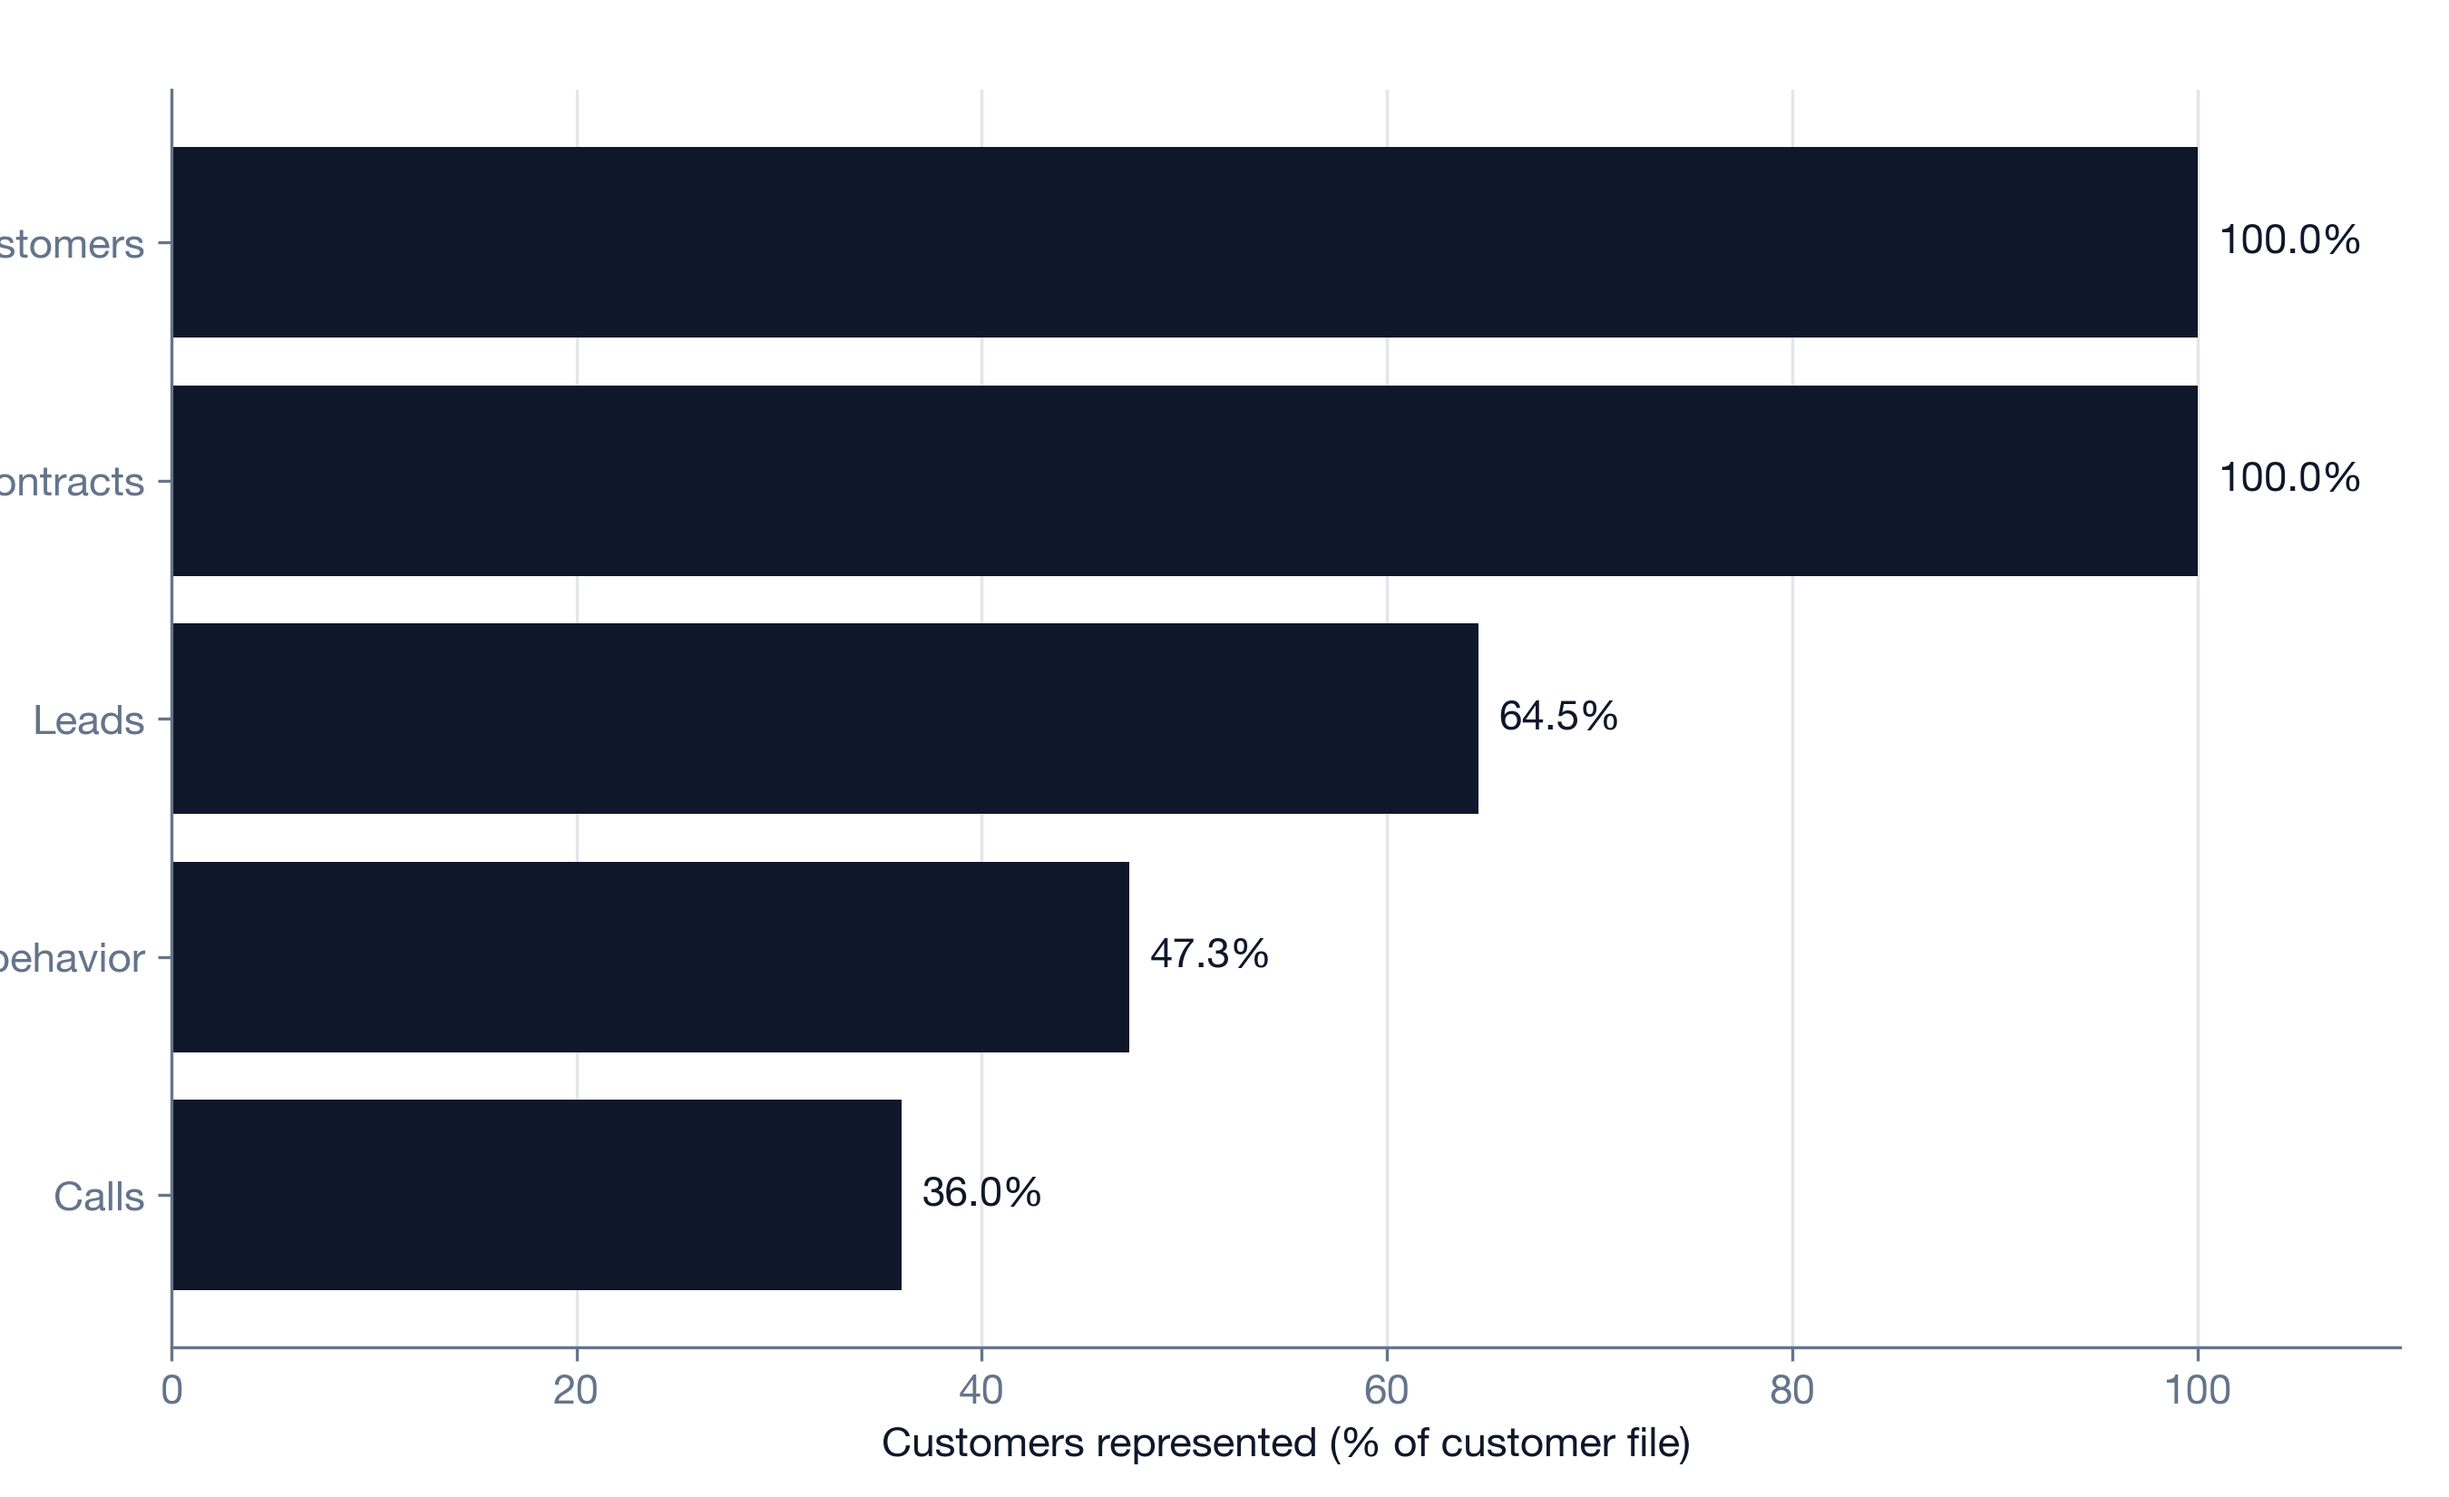
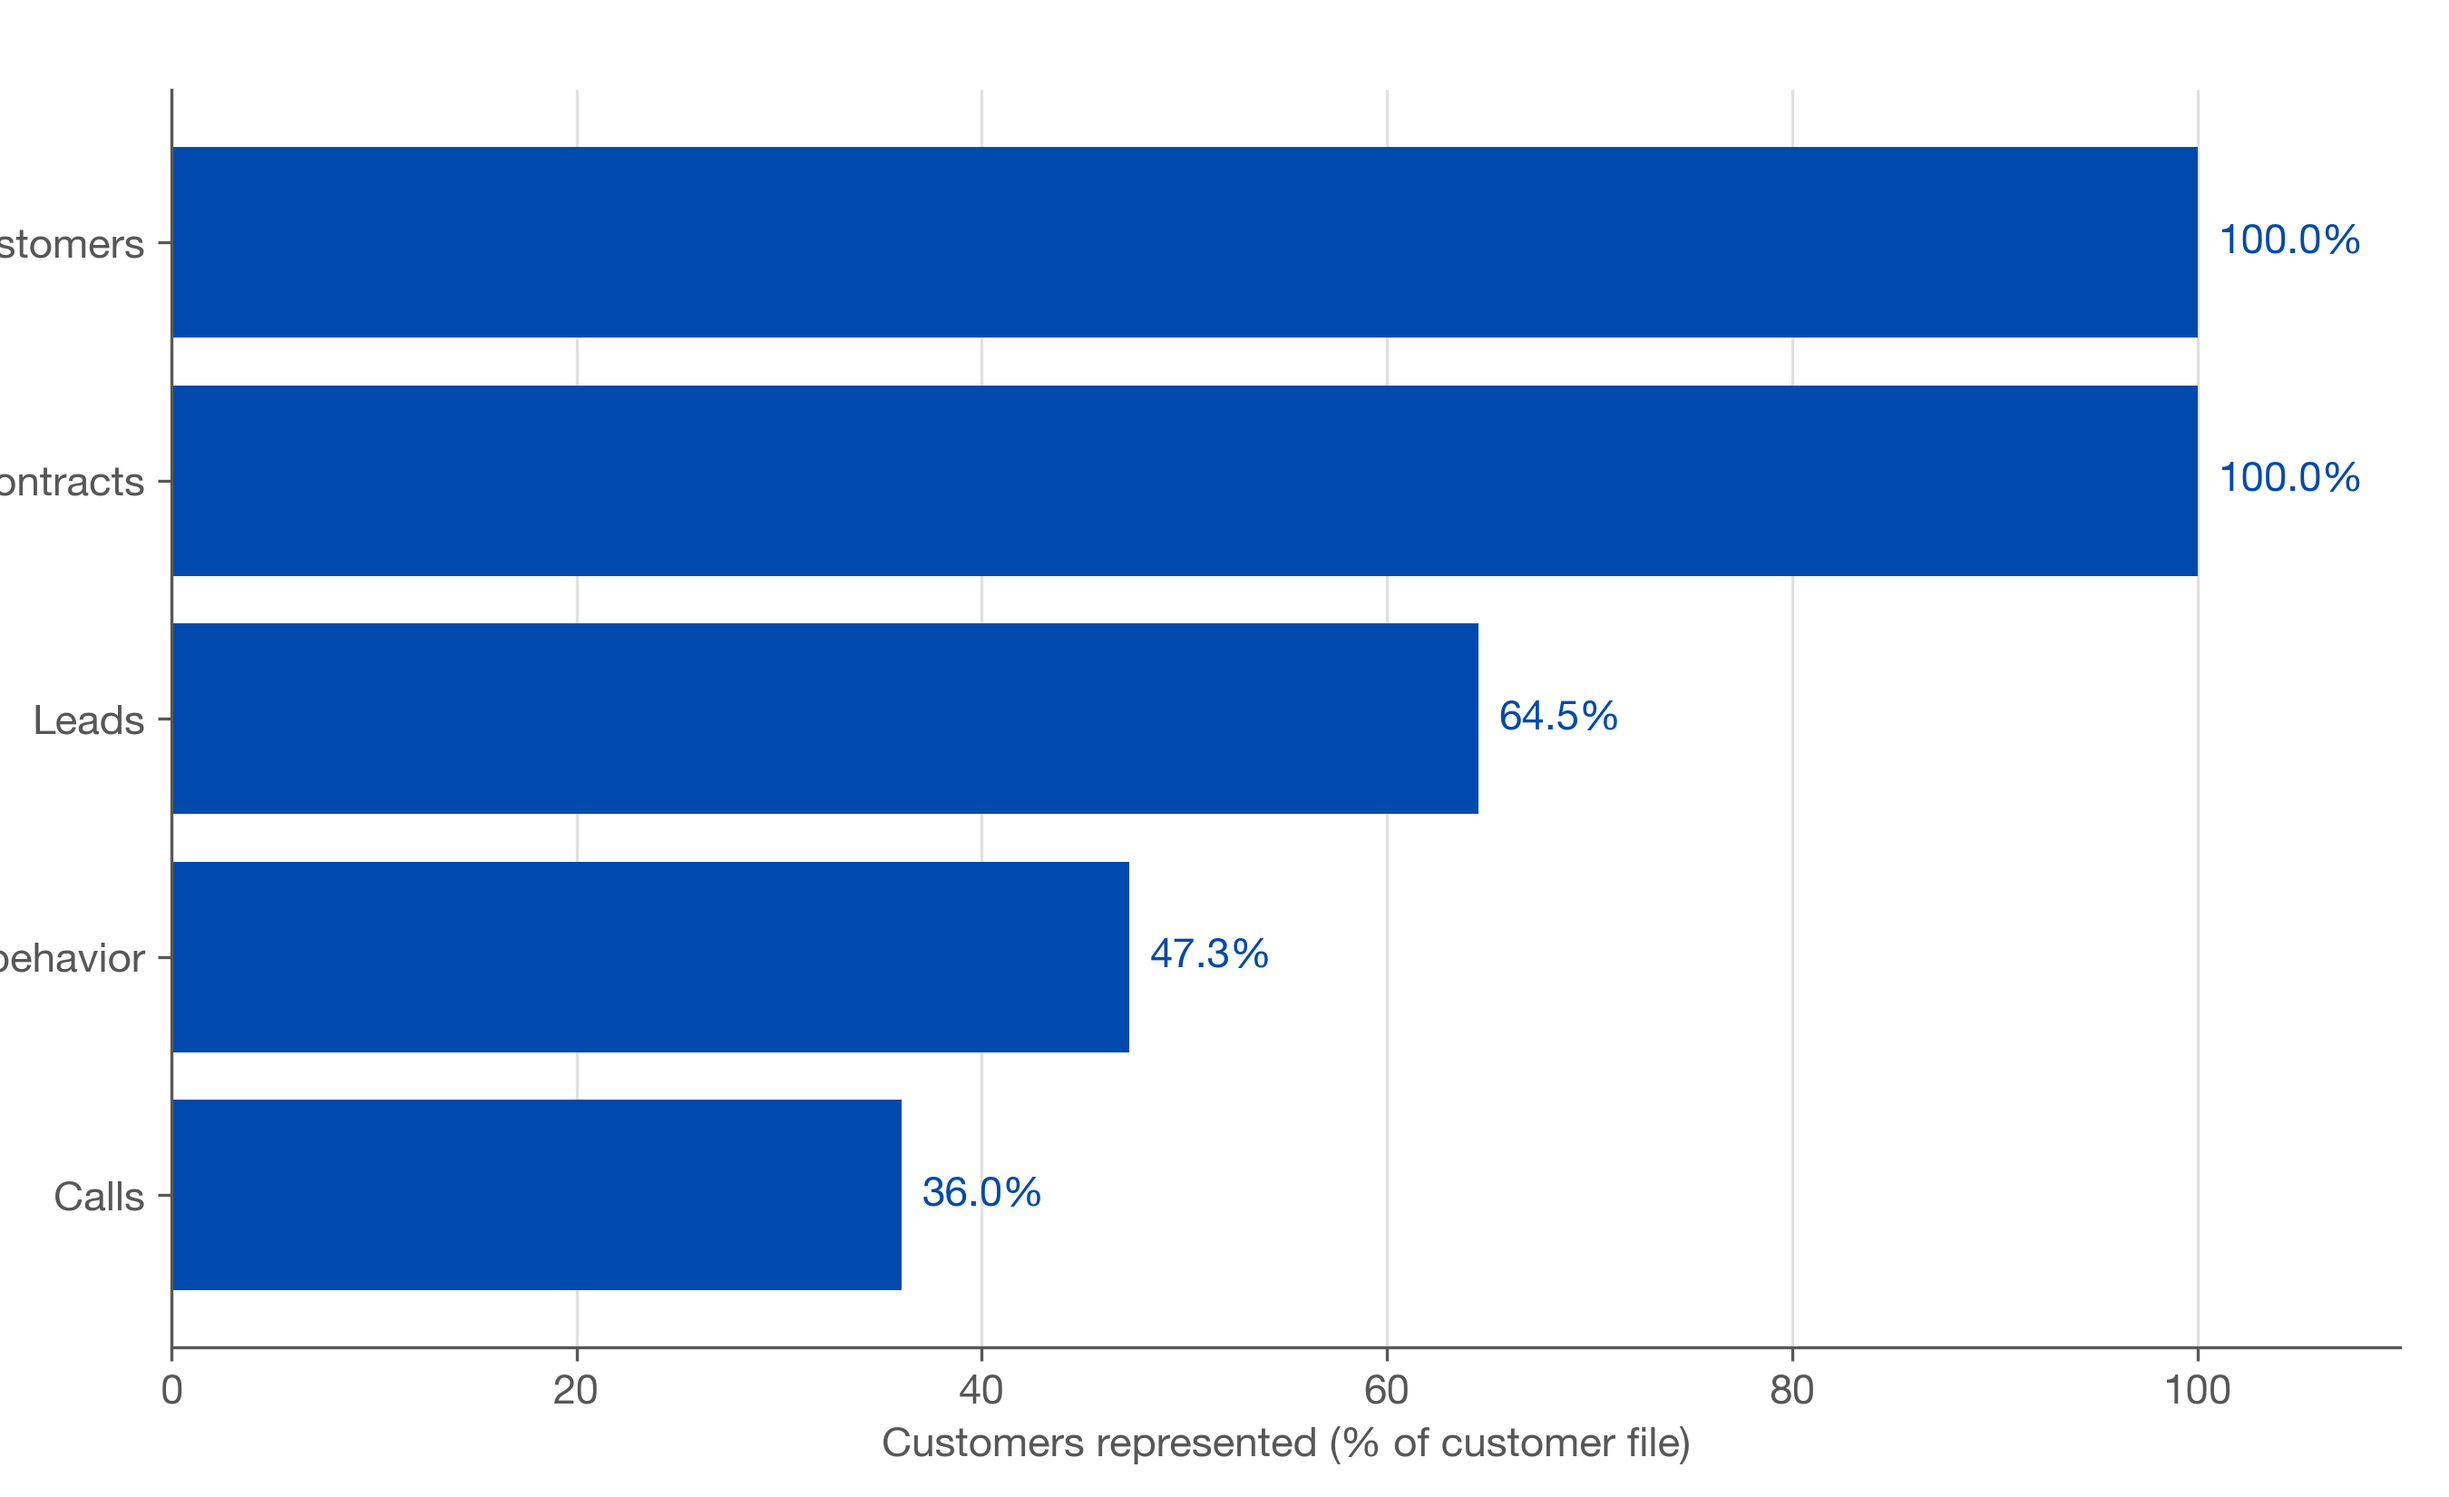
style: apply requested chart palette

diff --git a/Code/config/utils.py b/Code/config/utils.py
@@ -206,27 +206,25 @@ def assign_tier(score: pd.Series, tiers) -> pd.Series:
 # --------------------------------------------------------------------------------------
 # Plotting (pitch-deck style)
 # --------------------------------------------------------------------------------------
-# BI Season 10 Fintech theme - identical hex codes to the dashboard (Tools/pbi/dashboard.html)
+# BI Season 10 palette — shared across all charts.
 PAL = {
-    "navy": "#0F172A",      # primary brand: titles, primary series
-    "orange": "#F97316",    # accent: key highlights, secondary series
-    "amber": "#F59E0B",     # accent 2 / Medium tier
-    "green": "#10B981",     # High tier / healthy / safe
-    "red": "#EF4444",       # Low tier / financial stress / at-risk
-    "grey": "#64748B",      # neutral / secondary data
-    "bg": "#F8FAFC", "card": "#FFFFFF",
-    "light": (100 / 255, 116 / 255, 139 / 255, 0.18),   # neutral grey at 18% (volume bars, tracks)
-    "ink": "#0F172A",
+    "navy": "#004AAD",      # primary series and titles
+    "orange": "#004AAD",    # secondary accent
+    "amber": "#C8D1D9",     # middle / neutral tier
+    "green": "#004AAD",     # positive / healthy series
+    "red": "#C51E1E",       # risk / negative series
+    "grey": "#585757",      # labels and neutral series
+    "bg": "#C8D1D9", "card": "#FFFFFF",
+    "light": (200 / 255, 209 / 255, 217 / 255, 0.3),
+    "ink": "#585757",
 }
-TIER_COLORS = {"High": PAL["green"], "Medium": PAL["amber"], "Low": PAL["red"]}
-
-
+TIER_COLORS = {"High": PAL["navy"], "Medium": PAL["amber"], "Low": PAL["red"]}
 
 
 def status_cmap():
-    """0 -> #EF4444, 50 -> #F59E0B, 100 -> #10B981 (points / health colour scale)."""
+    """Map low scores to risk red and high scores to brand blue."""
     from matplotlib.colors import LinearSegmentedColormap
-    return LinearSegmentedColormap.from_list("bi10_status", [PAL["red"], PAL["amber"], PAL["green"]])
+    return LinearSegmentedColormap.from_list("bi10_status", [PAL["red"], PAL["amber"], PAL["navy"]])
 
 
 def navy_cmap():
